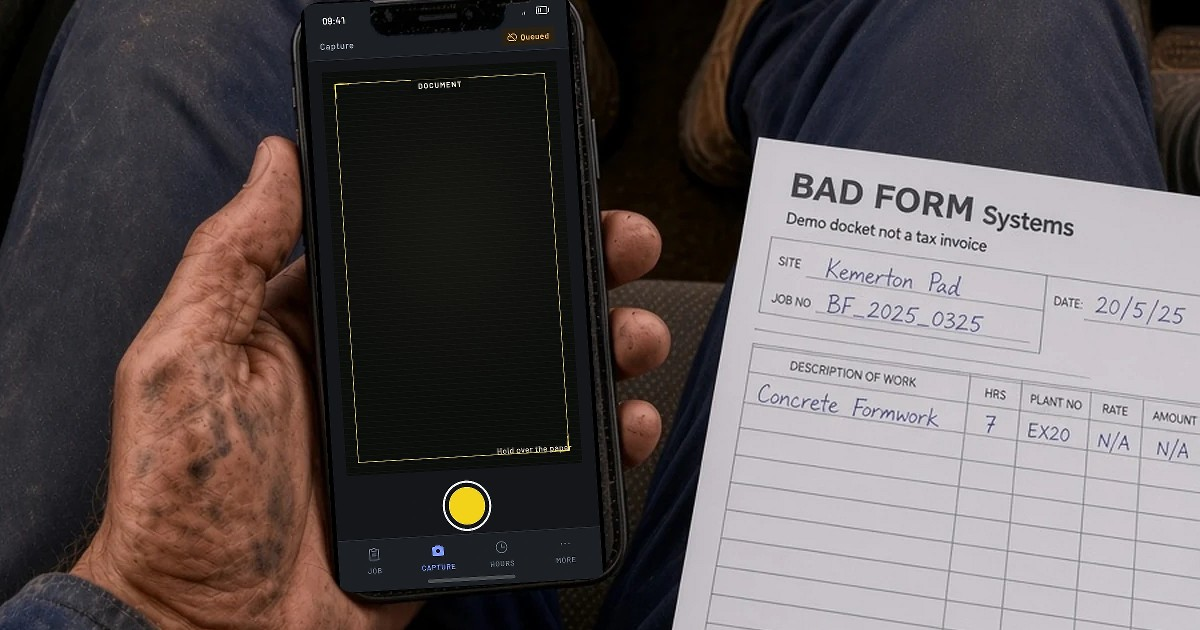
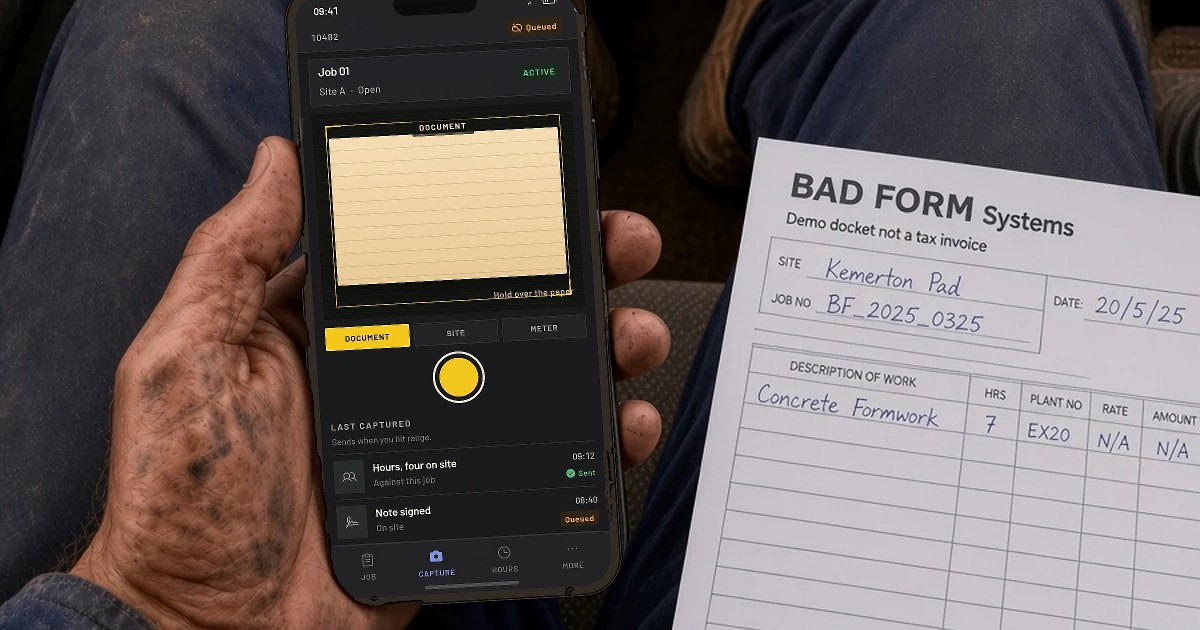
Sit a whole Capture phone in the cab hand
Shoot the dusk Capture chassis and drop it on the photographed ute plate, covering the old iPhone instead of warping HTML into that glass. The wrapping fingers stay. Hero hand is unchanged.

Changed region(s): [[0.2158, 0.0, 0.5242, 0.9651]]

diff --git a/src/content/stills.ts b/src/content/stills.ts
@@ -74,10 +74,10 @@ export const stillPlates: Record<StillSlug, StillPlate> = {
     screen: { width: 418, height: 872 },
     /* Device corners used by the compositor. Glass is not composited. */
     quad: [
-      [469.3, 192.8],
-      [757.5, 178.3],
-      [507.7, 805.9],
-      [797.2, 789.4],
+      [460.5, 181.2],
+      [764.8, 165.9],
+      [499.9, 810.3],
+      [805.5, 793.0],
     ],
     glass: {
       brightness: 1.02,

diff --git a/scripts/check-stills.py b/scripts/check-stills.py
@@ -2,7 +2,8 @@
 """Fail if the cab still is still a glass sticker, or the hand hero is unreadable.
 
 Cab: the photographed iPhone is replaced by a whole PhoneIms dusk device.
-A bezel that still matches the original plate is the old glass-warp method.
+Photographed camera speculars still showing means the drop is sitting inside
+the original chassis.
 
 Hand: the hero crop must put the glass on screen at a size you can read.
 """
@@ -21,16 +22,15 @@ IMAGES = ROOT / "public" / "images"
 
 # Outer chassis, not the glass. TL, TR, BL, BR in plate pixels.
 CAB_DEVICE_QUAD = np.array(
-    [[469.3, 192.8], [757.5, 178.3], [507.7, 805.9], [797.2, 789.4]],
+    [[460.5, 181.2], [764.8, 165.9], [499.9, 810.3], [805.5, 793.0]],
     np.float32,
 )
 CAB_GLASS_QUAD = np.array(
     [[486.4, 209.9], [742.7, 197.1], [522.5, 787.1], [780.1, 772.3]],
     np.float32,
 )
-# Photographed chassis still showing. Above this, Capture is sitting in the
-# original iPhone instead of replacing it.
-CAB_BEZEL_ORIGINAL_MAX = 0.38
+# Photographed dual-camera island still showing at the top of the chassis.
+CAB_CAMERA_HIGHLIGHT_MAX = 40
 CAB_GOLD_MAX = 80
 CAB_YELLOW_MIN = 400
 
@@ -56,25 +56,6 @@ def fill_quad(shape: tuple[int, int], quad: np.ndarray, round_px: int) -> np.nda
     return cover
 
 
-def cab_bezel_original_fraction(result: np.ndarray, plate: np.ndarray) -> float:
-    """How much of the photographed chassis (not the fingers) is still the plate."""
-    preview = cv2.resize(result, (plate.shape[1], plate.shape[0]), interpolation=cv2.INTER_AREA)
-    device = fill_quad(plate.shape, CAB_DEVICE_QUAD, 37)
-    glass = fill_quad(plate.shape, CAB_GLASS_QUAD, 21)
-    inner_glass = cv2.erode(glass, np.ones((9, 7), np.uint8))
-    bezel = (device > 127) & (inner_glass == 0)
-    ys, xs = np.where(device > 127)
-    x0, x1 = int(xs.min()), int(xs.max())
-    y0, y1 = int(ys.min()), int(ys.max())
-    # Thumb on the left and bottom stays photograph. Score the free bezel.
-    bezel[:, : int(x0 + 0.22 * (x1 - x0))] = False
-    bezel[int(y0 + 0.88 * (y1 - y0)) :, :] = False
-    if not bezel.any():
-        return 1.0
-    diff = np.abs(preview[bezel].astype(np.int16) - plate[bezel].astype(np.int16)).mean(axis=1)
-    return float((diff < 10).mean())
-
-
 def leftover_gold(plate: np.ndarray, result: np.ndarray) -> int:
     preview = cv2.resize(result, (plate.shape[1], plate.shape[0]), interpolation=cv2.INTER_AREA)
     glass = fill_quad(plate.shape, CAB_GLASS_QUAD, 21)
@@ -85,19 +66,35 @@ def leftover_gold(plate: np.ndarray, result: np.ndarray) -> int:
         & (hsv_p[:, :, 0] < 30)
         & (hsv_p[:, :, 1] > 80)
         & (hsv_p[:, :, 2] > 70)
+        & (hsv_p[:, :, 2] < 160)
     )
     still_gold = (
         (hsv_r[:, :, 0] > 10)
         & (hsv_r[:, :, 0] < 30)
         & (hsv_r[:, :, 1] > 80)
         & (hsv_r[:, :, 2] > 70)
+        & (hsv_r[:, :, 2] < 160)
     )
     return int((was_gold & still_gold & (glass > 127)).sum())
 
 
+def leftover_camera_highlights(result: np.ndarray, plate: np.ndarray) -> int:
+    """Bright speculars from the photographed camera island. CSS island is dark."""
+    preview = cv2.resize(result, (plate.shape[1], plate.shape[0]), interpolation=cv2.INTER_AREA)
+    device = fill_quad(plate.shape, CAB_DEVICE_QUAD, 41)
+    ys, xs = np.where(device > 127)
+    y0, y1 = int(ys.min()), int(ys.max())
+    top = np.zeros_like(device)
+    top[y0 : int(y0 + 0.12 * (y1 - y0)), :] = 255
+    zone = (device > 127) & (top > 0)
+    plate_bright = plate.max(axis=2) > 170
+    still_bright = preview.max(axis=2) > 170
+    return int((zone & plate_bright & still_bright).sum())
+
+
 def dusk_yellow_count(result: np.ndarray, plate_shape: tuple[int, int]) -> int:
     preview = cv2.resize(result, (plate_shape[1], plate_shape[0]), interpolation=cv2.INTER_AREA)
-    device = fill_quad(plate_shape, CAB_DEVICE_QUAD, 37)
+    device = fill_quad(plate_shape, CAB_DEVICE_QUAD, 41)
     hsv = cv2.cvtColor(preview, cv2.COLOR_RGB2HSV)
     yellow = (
         (hsv[:, :, 0] > 20)
@@ -143,17 +140,17 @@ def main() -> int:
 
     cab = load_rgb(cab_path)
     plate = load_rgb(plate_path)
-    bezel = cab_bezel_original_fraction(cab, plate)
+    cameras = leftover_camera_highlights(cab, plate)
     gold = leftover_gold(plate, cab)
     yellow = dusk_yellow_count(cab, plate.shape)
     print(
-        f"cab bezel original={bezel:.3f} max={CAB_BEZEL_ORIGINAL_MAX} "
+        f"cab camera-highlights={cameras} max={CAB_CAMERA_HIGHLIGHT_MAX} "
         f"leftover-gold={gold} yellow={yellow}"
     )
-    if bezel > CAB_BEZEL_ORIGINAL_MAX:
+    if cameras > CAB_CAMERA_HIGHLIGHT_MAX:
         print(
-            "FAIL cab: photographed chassis still showing. "
-            "Capture is sitting in the original iPhone, not replacing it."
+            "FAIL cab: photographed camera island still showing. "
+            "The dropped phone is sitting inside the original iPhone."
         )
         failed += 1
     if gold > CAB_GOLD_MAX:

diff --git a/scripts/composite-phone.py b/scripts/composite-phone.py
@@ -49,8 +49,8 @@ PLATES = {
         "output": IMAGES / "hero-cab.webp",
         "kind": "device",
         # Outer chassis, not the glass. TL, TR, BL, BR.
-        "quad": [(469.3, 192.8), (757.5, 178.3), (507.7, 805.9), (797.2, 789.4)],
-        "round": 37,
+        "quad": [(460.5, 181.2), (764.8, 165.9), (499.9, 810.3), (805.5, 793.0)],
+        "round": 41,
         "feather": 0.55,
     },
 }
@@ -253,6 +253,9 @@ def composite_device(
     graded = grade_cab_phone(ui)
     warped = warp_ui(graded, plate.shape, device_quad).astype(np.float32)
     alpha = warp_ui(ui_alpha, plate.shape, device_quad).astype(np.float32) / 255.0
+    alpha_u8 = np.clip(alpha * 255.0, 0, 255).astype(np.uint8)
+    alpha_u8 = cv2.dilate(alpha_u8, cv2.getStructuringElement(cv2.MORPH_ELLIPSE, (5, 5)))
+    alpha = alpha_u8.astype(np.float32) / 255.0
     alpha[finger > 127] = 0
     alpha = cv2.GaussianBlur(alpha, (0, 0), max(0.4, feather))
     alpha[finger > 127] = 0
@@ -285,24 +288,21 @@ def leftover_gold(plate: np.ndarray, result: np.ndarray, mask: np.ndarray) -> in
     hsv_p = cv2.cvtColor(plate, cv2.COLOR_RGB2HSV)
     hsv_r = cv2.cvtColor(result, cv2.COLOR_RGB2HSV)
     was_gold = (hsv_p[:, :, 0] > 10) & (hsv_p[:, :, 0] < 30) & (hsv_p[:, :, 1] > 80) & (hsv_p[:, :, 2] > 70)
-    still_gold = (hsv_r[:, :, 0] > 10) & (hsv_r[:, :, 0] < 30) & (hsv_r[:, :, 1] > 80) & (hsv_r[:, :, 2] > 70)
+    still_gold = (hsv_r[:, :, 0] > 10) & (hsv_r[:, :, 0] < 30) & (hsv_r[:, :, 1] > 80) & (hsv_r[:, :, 2] > 70) & (hsv_r[:, :, 2] < 160)
     return int((was_gold & still_gold & (mask > 127)).sum())
 
 
-def cab_bezel_original_fraction(result: np.ndarray, plate: np.ndarray, device: np.ndarray) -> float:
-    inner = cv2.erode(device, np.ones((21, 21), np.uint8))
-    bezel = (device > 127) & (inner == 0)
+def leftover_camera_highlights(result: np.ndarray, plate: np.ndarray, device: np.ndarray) -> int:
     ys, xs = np.where(device > 127)
     if len(xs) == 0:
-        return 1.0
-    x0, x1 = int(xs.min()), int(xs.max())
+        return 0
     y0, y1 = int(ys.min()), int(ys.max())
-    bezel[:, : int(x0 + 0.22 * (x1 - x0))] = False
-    bezel[int(y0 + 0.88 * (y1 - y0)) :, :] = False
-    if not bezel.any():
-        return 1.0
-    diff = np.abs(result[bezel].astype(np.int16) - plate[bezel].astype(np.int16)).mean(axis=1)
-    return float((diff < 10).mean())
+    top = np.zeros_like(device)
+    top[y0 : int(y0 + 0.12 * (y1 - y0)), :] = 255
+    zone = (device > 127) & (top > 0)
+    plate_bright = plate.max(axis=2) > 170
+    still_bright = result.max(axis=2) > 170
+    return int((zone & plate_bright & still_bright).sum())
 
 
 def overlay_mask(plate: np.ndarray, mask: np.ndarray, path: Path) -> None:
@@ -419,12 +419,13 @@ def process(
             raise SystemExit(f"{slug}: UI landed on the cream sand ({cream} px).")
         extra = f"leftover-blue={blue} cream-hit={cream}"
     else:
-        gold = leftover_gold(load_rgb(cfg["plate"]), preview, mask)
-        bezel = cab_bezel_original_fraction(preview, load_rgb(cfg["plate"]), mask)
-        extra = f"leftover-gold={gold} bezel-original={bezel:.3f}"
-        if not skip_checks and bezel > 0.38:
+        inner = cv2.erode(mask, cv2.getStructuringElement(cv2.MORPH_ELLIPSE, (31, 31)))
+        gold = leftover_gold(load_rgb(cfg["plate"]), preview, inner)
+        cameras = leftover_camera_highlights(preview, load_rgb(cfg["plate"]), mask)
+        extra = f"leftover-gold={gold} camera-highlights={cameras}"
+        if not skip_checks and cameras > 40:
             raise SystemExit(
-                f"{slug}: photographed chassis still showing ({bezel:.3f})."
+                f"{slug}: photographed camera island still showing ({cameras} px)."
             )
         if not skip_checks and gold > 80:
             raise SystemExit(f"{slug}: original gold UI is still in the glass ({gold} px).")
